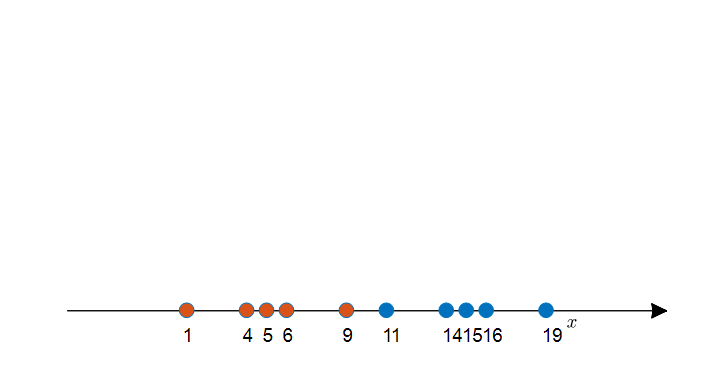
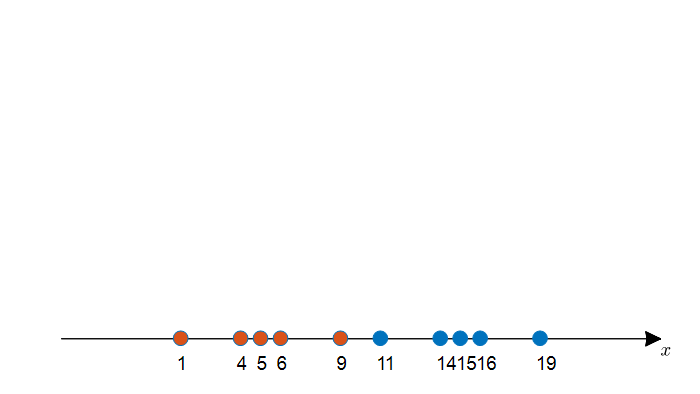
-

Changed region(s): [[0.09, 0.7772, 0.96, 0.9637]]

diff --git a/pics/2021-02-08-GMM_and_EM/no01_pics.m b/pics/2021-02-08-GMM_and_EM/no01_pics.m
@@ -16,7 +16,7 @@ for i = 1:length(data)
     text(data(i)-0.2, -0.02, num2str(data(i)),'fontsize',13);
 end
 
-text(20, -0.01, '$$x$$','Interpreter','latex','fontsize',13);
+text(25, -0.01, '$$x$$','Interpreter','latex','fontsize',13);
 
 data = [1,4,5,6,9]+10;
 hold on;
@@ -42,7 +42,7 @@ for i = 1:length(data)
     text(data(i)-0.2, -0.02, num2str(data(i)),'fontsize',13);
 end
 
-text(20, -0.01, '$$x$$','Interpreter','latex','fontsize',13);
+text(25, -0.01, '$$x$$','Interpreter','latex','fontsize',13);
 
 pd = fitdist(data', 'Normal');
 xx = linspace(-3, 13, 100);

diff --git a/_posts/2021-02-08-GMM_and_EM.md b/_posts/2021-02-08-GMM_and_EM.md
@@ -52,7 +52,14 @@ $$\hat{\sigma}^2= \frac{1}{m}\sum_{i=1}^{m}(x^{(i)}-\mu)^2$$
 
 ## 우리가 처한 문제는?
 
+아래의 그림 2에서와 같이 수직선 $x$ 상에 
 
+
+<p align = "center">
+  <img src = "https://raw.githubusercontent.com/angeloyeo/angeloyeo.github.io/master/pics/2021-02-08-GMM_and_EM/pic2.png">
+  <br>
+  그림 2. Label이 주어진 Density Estimation 문제 (MLE를 이용해 풀 수 있음)
+</p>
 
 
 ## EM 알고리즘을 이용한 GMM 모델링
